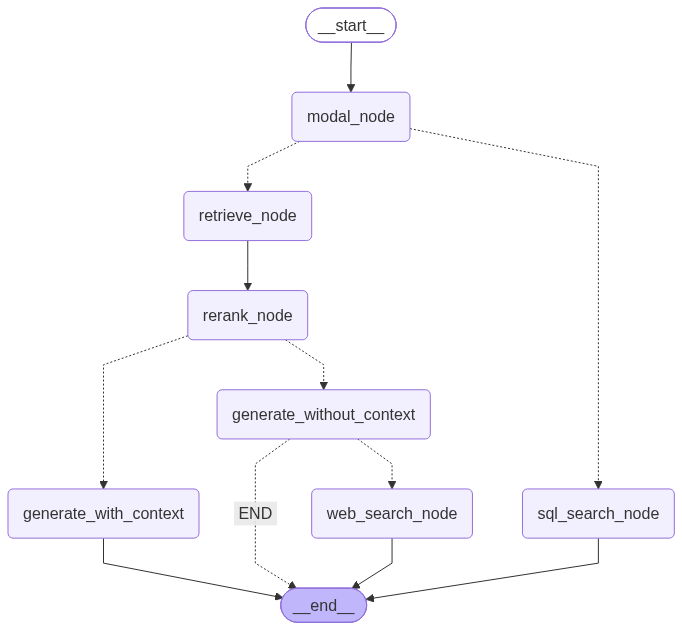
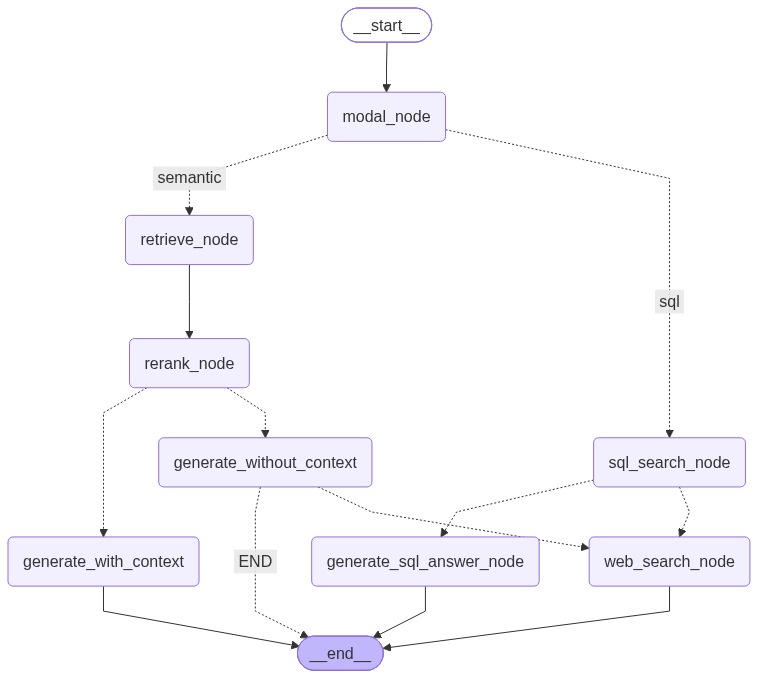
use ollame gemma4

diff --git a/app/text_rag/graph_builder.py b/app/text_rag/graph_builder.py
@@ -28,9 +28,20 @@ from app.text_rag import chunking_strategy
 from app.utility import file_io
 from app.utility import sql_regex_check
 from app.utility import reciprocal_rank_fusion
+from app.utility import sql_validator
+import logging
 
 # Setup
 load_dotenv()
+
+logger = logging.getLogger(__name__)
+
+
+PROJECT_ROOT = Path(__file__).parent.parent.parent
+DB_PATH = PROJECT_ROOT / "simpsons.db"
+
+# Load schema once at startup
+SIMPSONS_SCHEMA = sql_validator.load_db_schema(DB_PATH)
 
 
 class ChatState(TypedDict):
@@ -44,6 +55,7 @@ class ChatState(TypedDict):
     score: float  # top cross-encoder reranker score from retrieved_chunks
     reply: str
     query_route: str
+    sql_result_data: list
 
 
 # 1 node determine query can be converted to SQL search or regular semantic
@@ -53,11 +65,11 @@ def modal_node(state: ChatState) -> dict:
     start = time.time()
     if sql_regex_check.is_sql_intent(question):
         end = time.time()
-        # print(f"Fast Regex Determinant Time: {end - start:.4f}s -- is_sql : True")
+        print(f"Fast Regex Determinant Time: {end - start:.4f}s -- is_sql : True")
         return {"query_route": "sql"}
 
     response = ollama.chat(
-        model="llama3.2:3b",
+        model="gemma4:e4b",
         messages=[
             {
                 "role": "system",
@@ -80,7 +92,7 @@ def modal_node(state: ChatState) -> dict:
     is_sql = "yes" in answer
 
     end = time.time()
-    # print(f"local LLM modal determin Time: {end-start:.2f}s -- is_sql : {is_sql}")
+    print(f"local LLM modal determin Time: {end-start:.2f}s -- is_sql : {is_sql}")
 
     return {"query_route": "sql" if is_sql else "semantic"}
 
@@ -143,32 +155,47 @@ def retrieve_node(state: ChatState) -> dict:
 
 
 # 2 level SQL Processing Node
+# generate → validate → execute → fallback
 async def sql_search_node(state: ChatState) -> dict:
     question = state["question"]
 
     # 1. Generate SQL via LLM or helper function
     raw_sql = await ollama_provider.generate_sql_with_llm(question)
     print(f"-- raw_sql : {raw_sql}")
-    # 2. Execute against database
-    # Example placeholder response:
-    sql_result_data = f"Executed SQL lookup for: {question}"
 
-    history = state["history"]
-    prompt = f"Answer the user query based on this database result:\n{sql_result_data}"
-    messages = history + [HumanMessage(content=question)]
+    t0 = time.time()
+    is_valid, safe_sql, error = sql_validator.validate_sql(raw_sql, SIMPSONS_SCHEMA)
+    print(f"sql_validator time : {time.time() - t0:.2f}s")
+    if is_valid:
+        print(f"Executing: {safe_sql}")
+    # Output: Executing: SELECT * FROM users WHERE age > 21 LIMIT 50
+    else:
+        print(f"Validation failed: {error}")
+        return {"sql_result_data": None}
 
-    from app.main import generate_with_llm_failover
+    # 3. Execute against database
+    db_uri = f"file:{DB_PATH.as_posix()}?mode=ro"
+    conn = sqlite3.connect(db_uri, uri=True)
+    try:
+        # Enable row_factory to map column names to keys
+        conn.row_factory = sqlite3.Row
+        cursor = conn.cursor()
+        cursor.execute(safe_sql)
+        rows = cursor.fetchall()
+        # Convert all rows into standard Python dictionaries
+        sql_result_data = [dict(row) for row in rows]
+        print(f"sql_result_data: {sql_result_data}")
+        return {
+            "sql_result_data": sql_result_data,
+        }
+    except Exception as e:
+        logger.error(f"SQL execution failed for question '{question}': {e}")
 
-    reply = await generate_with_llm_failover(prompt=prompt, messages=messages)
-
-    return {
-        "reply": reply,
-        "sql_results": sql_result_data,
-        "history": [
-            HumanMessage(content=question),
-            AIMessage(content=reply),
-        ],
-    }
+        return {
+            "sql_result_data": None,
+        }
+    finally:
+        conn.close()
 
 
 # 3rd node
@@ -198,11 +225,17 @@ def not_in_context_router(state: ChatState) -> str:
     if state["reply"] == "NO_KNOWLEDGE":
         return "web_search_node"
     else:
-        return "END"
+        return END
 
 
 def sql_or_semantic_router(state: ChatState) -> str:
     return state["query_route"]
+
+
+def after_sql_router(state: ChatState) -> str:
+    if state.get("sql_result_data") is None:
+        return "web_search_node"
+    return "generate_sql_answer_node"
 
 
 # 4th node after retrieval node
@@ -258,6 +291,45 @@ async def generate_without_context_node(state: ChatState) -> dict:
     }
 
 
+# feed sql result data to LLM to get natural language result
+async def generate_sql_answer_node(state: ChatState) -> dict:
+    question = state["question"]
+    sql_data = state["sql_result_data"]
+    history = state.get("history", [])
+
+    system_prompt = (
+        "You are a helpful assistant. Formulate a direct, clear natural language answer "
+        "to the user's question based strictly on the provided SQL query results. "
+        "Do not invent facts or mention database column names explicitly."
+    )
+
+    user_content = f"Question: {question}\nSQL Result Data: {sql_data}"
+
+    start = time.time()
+    # Call local Ollama model (gemma4:e4b)
+    response = ollama.chat(
+        model="gemma4:e4b",
+        messages=[
+            {"role": "system", "content": system_prompt},
+            {"role": "user", "content": user_content},
+        ],
+        options={"temperature": 0},
+    )
+
+    end = time.time()
+    print(f"--gemma4:e4b generate_sql_answer_node {end-start:.2f}s")
+
+    reply = response["message"]["content"].strip()
+
+    return {
+        "reply": reply,
+        "history": [
+            HumanMessage(content=question),
+            AIMessage(content=reply),
+        ],
+    }
+
+
 # 5th node after generation node
 async def web_search_node(state: ChatState) -> dict:
     question = state["question"]
@@ -293,8 +365,9 @@ def build_graph(checkpointer=None) -> CompiledStateGraph:
     graph.add_node("modal_node", modal_node)
     graph.add_node("retrieve_node", retrieve_node)
     graph.add_node("sql_search_node", sql_search_node)
+    graph.add_node("generate_sql_answer_node", generate_sql_answer_node)
     graph.add_node("rerank_node", rerank_node)
-    graph.add_edge("retrieve_node", "rerank_node")
+
     graph.add_node("generate_with_context", generate_with_context_node)
     graph.add_node("generate_without_context", generate_without_context_node)
     graph.add_node("web_search_node", web_search_node)
@@ -325,10 +398,19 @@ def build_graph(checkpointer=None) -> CompiledStateGraph:
         not_in_context_router,
         {"web_search_node": "web_search_node", "END": END},
     )
+    graph.add_conditional_edges(
+        "sql_search_node",  # the node whose output you're routing from
+        after_sql_router,  # the function that decides where to go
+        {
+            "generate_sql_answer_node": "generate_sql_answer_node",
+            "web_search_node": "web_search_node",
+        },
+    )
 
+    graph.add_edge("retrieve_node", "rerank_node")
+    graph.add_edge("generate_with_context", END)
+    graph.add_edge("generate_sql_answer_node", END)
     graph.add_edge("web_search_node", END)
-    # SQL Node terminates at END
-    graph.add_edge("sql_search_node", END)
 
     # Compile the graph into a runnable application
     # attach a checkpointer (like MemorySaver) to enable

diff --git a/app/utility/sql_validator.py b/app/utility/sql_validator.py
@@ -1,0 +1,120 @@
+from pathlib import Path
+import sqlite3
+from typing import Dict, Optional, Set, Tuple
+import sqlglot
+from sqlglot import exp
+
+
+def load_db_schema(db_path: Path) -> Dict[str, Set[str]]:
+    """
+    Reads the ground-truth schema directly from SQLite metadata.
+    Returns: Dict mapping lowercase table_name -> set(lowercase column_names).
+    """
+    schema = {}
+    with sqlite3.connect(db_path) as conn:
+        cursor = conn.cursor()
+        cursor.execute(
+            "SELECT name FROM sqlite_master WHERE type='table' AND name NOT LIKE 'sqlite_%';"
+        )
+        tables = [row[0] for row in cursor.fetchall()]
+
+        for table in tables:
+            cursor.execute(f"PRAGMA table_info('{table}');")
+            schema[table.lower()] = {row[1].lower() for row in cursor.fetchall()}
+
+    return schema
+
+
+def parse_and_validate_ast(
+    raw_sql: str,
+) -> Tuple[bool, Optional[exp.Expression], Optional[str]]:
+    """
+    Step 3.1: Ensures query is valid SQLite, a single SELECT statement,
+    and free of mutation/forbidden SQL nodes.
+    """
+    cleaned = raw_sql.strip()
+    if cleaned.startswith("```"):
+        lines = cleaned.splitlines()
+        cleaned = "\n".join(lines[1:-1] if lines[-1].startswith("```") else lines[1:])
+    cleaned = cleaned.strip().rstrip(";")
+
+    try:
+        statements = sqlglot.parse(cleaned, read="sqlite")
+    except sqlglot.errors.ParseError as e:
+        return False, None, f"parse_error: {e}"
+
+    if len(statements) != 1 or statements[0] is None:
+        return False, None, "multiple_or_empty_statements_not_allowed"
+
+    parsed = statements[0]
+    if not isinstance(parsed, exp.Select):
+        return False, None, "only_select_statements_allowed"
+
+    forbidden = (
+        exp.Insert,
+        exp.Update,
+        exp.Delete,
+        exp.Drop,
+        exp.Create,
+        exp.Attach,
+        exp.Pragma,
+        exp.Command,
+    )
+    if any(isinstance(node, forbidden) for node in parsed.walk()):
+        return False, None, "forbidden_statement_type_found"
+
+    return True, parsed, None
+
+
+def verify_schema(
+    parsed: exp.Expression, allowed_schema: Dict[str, Set[str]]
+) -> Tuple[bool, Optional[str]]:
+    """
+    Step 3.2: Confirms every table and column referenced in the AST
+    exists in allowed_schema (catches hallucinations and injection attempts).
+    """
+    # 1. Check referenced tables
+    referenced_tables = {
+        table.name.lower() for table in parsed.find_all(exp.Table) if table.name
+    }
+    for table_name in referenced_tables:
+        if table_name not in allowed_schema:
+            return False, f"hallucinated_table: '{table_name}'"
+
+    # 2. Check referenced columns across allowed table schemas
+    all_allowed_columns = set()
+    for table_name in referenced_tables:
+        all_allowed_columns.update(allowed_schema[table_name])
+
+    for column_node in parsed.find_all(exp.Column):
+        col_name = column_node.name.lower()
+        if col_name == "*" or col_name in all_allowed_columns:
+            continue
+        return False, f"hallucinated_column: '{col_name}'"
+
+    return True, None
+
+
+def validate_sql(
+    raw_sql: str, allowed_schema: Dict[str, Set[str]]
+) -> Tuple[bool, Optional[str], Optional[str]]:
+    """
+    Main orchestrator method executing Step 3.1 and Step 3.2 sequentially.
+    Returns: (is_valid: bool, safe_sql: str | None, error_message: str | None)
+    """
+    # Step 3.1: AST & Syntax Check
+    is_valid, parsed_ast, err = parse_and_validate_ast(raw_sql)
+    if not is_valid or parsed_ast is None:
+        return False, None, err
+
+    # Step 3.2: Schema Verification Check
+    is_schema_valid, schema_err = verify_schema(parsed_ast, allowed_schema)
+    if not is_schema_valid:
+        return False, None, schema_err
+
+    # Re-serialize clean SQL from AST & append default LIMIT
+    safe_sql = parsed_ast.sql(dialect="sqlite")
+    if "limit" not in safe_sql.lower():
+        safe_sql += " LIMIT 50"
+
+    return True, safe_sql, None

diff --git a/app/providers/ollama_provider.py b/app/providers/ollama_provider.py
@@ -1,6 +1,7 @@
 import ollama
 from pathlib import Path
 from app.utility import db_service
+import time
 
 PROJECT_ROOT = Path(__file__).parent.parent.parent
 DB_PATH = PROJECT_ROOT / "simpsons.db"
@@ -43,10 +44,15 @@ Rules:
   specifically mentions them.
 - Use JOINs, GROUP BY, ORDER BY, WHERE, aggregate functions as needed.
 - Include a LIMIT (default 50) unless the question is asking for a count or aggregate.
-"""
+- For questions about a character's job, employment, or where they work, filter on
+  characters.occupation directly. Do NOT infer employment by joining through
+  script_lines/locations — a character speaking a line at a location does not
+  mean they work there.
+  """
 
 
 async def generate_sql_with_llm(question: str) -> str:
+    t0 = time.time()
     response = ollama.chat(
         model="gemma4:e4b",
         messages=[
@@ -55,4 +61,5 @@ async def generate_sql_with_llm(question: str) -> str:
         ],
         options={"temperature": 0},
     )
+    print(f"SQL generation (gemma4:e4b): {time.time() - t0:.2f}s")
     return response["message"]["content"]
